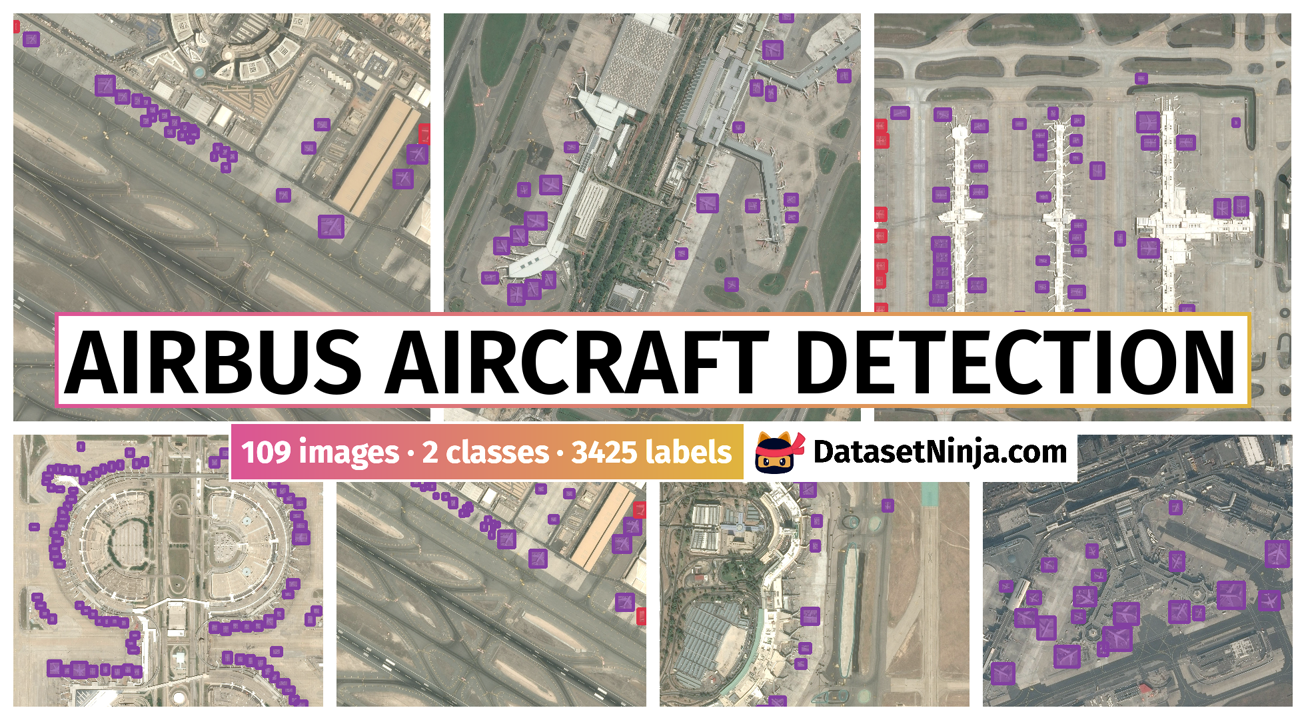
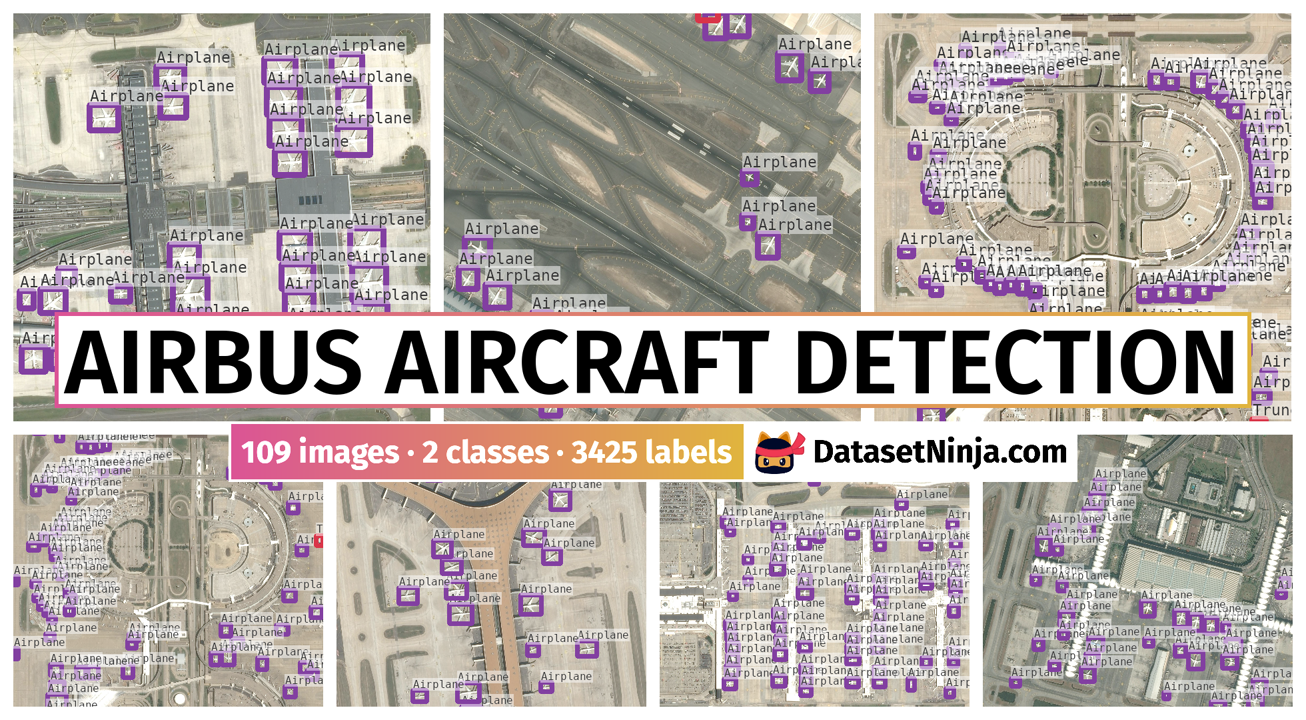
upd custom data

diff --git a/src/settings.py b/src/settings.py
@@ -1,6 +1,14 @@
 from typing import Dict, List, Optional, Union
 
-from dataset_tools.templates import AnnotationType, CVTask, Industry, License
+from dataset_tools.templates import (
+    AnnotationType,
+    Category,
+    CVTask,
+    Domain,
+    Industry,
+    License,
+    Research,
+)
 
 ##################################
 # * Before uploading to instance #
@@ -12,11 +20,16 @@ PROJECT_NAME_FULL: str = "Airbus Aircrafts Detection Sample Dataset"
 # * After uploading to instance ##
 ##################################
 LICENSE: License = License.CC_BY_NC_4_0()
-INDUSTRIES: List[Industry] = [Industry.Aviation()]
+APPLICATIONS: List[Union[Industry, Domain, Research]] = [Industry.Aviation()]
+CATEGORY: Category = Category.Aerial()
+
 CV_TASKS: List[CVTask] = [CVTask.ObjectDetection()]
 ANNOTATION_TYPES: List[AnnotationType] = [AnnotationType.ObjectDetection()]
 
-RELEASE_YEAR: int = 2021
+RELEASE_DATE: Optional[str] = None  # e.g. "YYYY-MM-DD"
+if RELEASE_DATE is None:
+    RELEASE_YEAR: int = 2021
+
 HOMEPAGE_URL: str = (
     "https://www.kaggle.com/datasets/airbusgeo/airbus-aircrafts-sample-dataset?select=README.md"
 )
@@ -41,9 +54,12 @@ CLASS2COLOR: Optional[Dict[str, List[str]]] = None
 
 PAPER: Optional[str] = None
 CITATION_URL: Optional[str] = None
-ORGANIZATION_NAME: Optional[Union[str, List[str]]] = "AIRBUSGEO, France"
+AUTHORS: Optional[List[str]] = ["Jeff Faudi"]
+
+ORGANIZATION_NAME: Optional[Union[str, List[str]]] = "Airbus DS Intelligence"
 ORGANIZATION_URL: Optional[Union[str, List[str]]] = "http://www.intelligence-airbusds.com/"
 
+SLYTAGSPLIT: Optional[Dict[str, List[str]]] = None
 TAGS: List[str] = None
 
 ##################################
@@ -58,10 +74,15 @@ def check_names():
 
 
 def get_settings():
+    if RELEASE_DATE is not None:
+        global RELEASE_YEAR
+        RELEASE_YEAR = int(RELEASE_DATE.split("-")[0])
+
     settings = {
         "project_name": PROJECT_NAME,
         "license": LICENSE,
-        "industries": INDUSTRIES,
+        "applications": APPLICATIONS,
+        "category": CATEGORY,
         "cv_tasks": CV_TASKS,
         "annotation_types": ANNOTATION_TYPES,
         "release_year": RELEASE_YEAR,
@@ -73,13 +94,16 @@ def get_settings():
     if any([field is None for field in settings.values()]):
         raise ValueError("Please fill all fields in settings.py after uploading to instance.")
 
+    settings["release_date"] = RELEASE_DATE
     settings["project_name_full"] = PROJECT_NAME_FULL or PROJECT_NAME
     settings["download_original_url"] = DOWNLOAD_ORIGINAL_URL
     settings["class2color"] = CLASS2COLOR
     settings["paper"] = PAPER
     settings["citation_url"] = CITATION_URL
+    settings["authors"] = AUTHORS
     settings["organization_name"] = ORGANIZATION_NAME
     settings["organization_url"] = ORGANIZATION_URL
-    settings["tags"] = TAGS if TAGS is not None else []
+    settings["slytagsplit"] = SLYTAGSPLIT
+    settings["tags"] = TAGS
 
     return settings

diff --git a/src/options.py b/src/options.py
@@ -5,7 +5,7 @@
 # * Preview class to visualize in SUMMARY.md overview section
 # * Literal["ClassesPreview", "HorizontalGrid", "SideAnnotationsGrid", "Poster"]
 # * If None, then preview_class will be set automatically to "ClassesPreview"
-PREVIEW_CLASS = "HorizontalGrid"
+PREVIEW_CLASS = "Poster"
 
 IS_DETECTION_TASK: bool = True  # ? Set True if you want to visualize only bbox annotations
 

diff --git a/SUMMARY.md b/SUMMARY.md
@@ -1,11 +1,7 @@
-**Airbus Aircrafts Detection Sample Dataset** is a dataset for object detection tasks. It is used in the aviation industry.
+**Airbus Aircrafts Detection Sample Dataset** is a dataset for object detection tasks. It is used in the aviation industry. 
 
 The dataset consists of 109 images with 3425 labeled objects belonging to 2 different classes including *Airplane* and *Truncated_airplane*.
 
-Images in the Airbus Aircraft Detection dataset have bounding box annotations. There are 6 (6% of the total) unlabeled images (i.e. without annotations). There are 2 splits in the dataset: *extras* (6 images) and *images* (103 images). The dataset was released in 2021 by the [AIRBUSGEO, France](http://www.intelligence-airbusds.com/).
+Images in the Airbus Aircraft Detection dataset have bounding box annotations. There are 6 (6% of the total) unlabeled images (i.e. without annotations). There are 2 splits in the dataset: *extras* (6 images) and *images* (103 images). The dataset was released in 2021 by the [Airbus DS Intelligence](http://www.intelligence-airbusds.com/).
 
-This dataset is a demonstration version of larger and more advanced deep learning datasets created from Airbus satellite imagery. It is provided for demonstration purpose only.
-
-Here is the visualized example grid with annotations:
-
-<img src="https://github.com/dataset-ninja/airbus-aircraft-detection/raw/main/visualizations/horizontal_grid.png">
+<img src="https://github.com/dataset-ninja/airbus-aircraft-detection/raw/main/visualizations/poster.png">

diff --git a/CITATION.md b/CITATION.md
@@ -1,11 +1,11 @@
 If you make use of the Airbus Aircraft Detection data, please cite the following reference:
 
 ``` bibtex 
-@misc{Airbus Aircraft Detection,
-	author="jeffaudi",
-	title="Airbus Aircrafts Detection Sample Dataset",
+@dataset{Airbus Aircraft Detection,
+	author={Jeff Faudi},
+	title={Airbus Aircrafts Detection Sample Dataset},
 	year={2021},
-	url="https://www.kaggle.com/datasets/airbusgeo/airbus-aircrafts-sample-dataset?select=README.md"
+	url={https://www.kaggle.com/datasets/airbusgeo/airbus-aircrafts-sample-dataset?select=README.md}
 }
 ```
 

diff --git a/ABSTRACT.md b/ABSTRACT.md
@@ -1,0 +1,1 @@
+This dataset is a demonstration version of larger and more advanced deep learning datasets created from Airbus satellite imagery. It is provided for demonstration purpose only.
